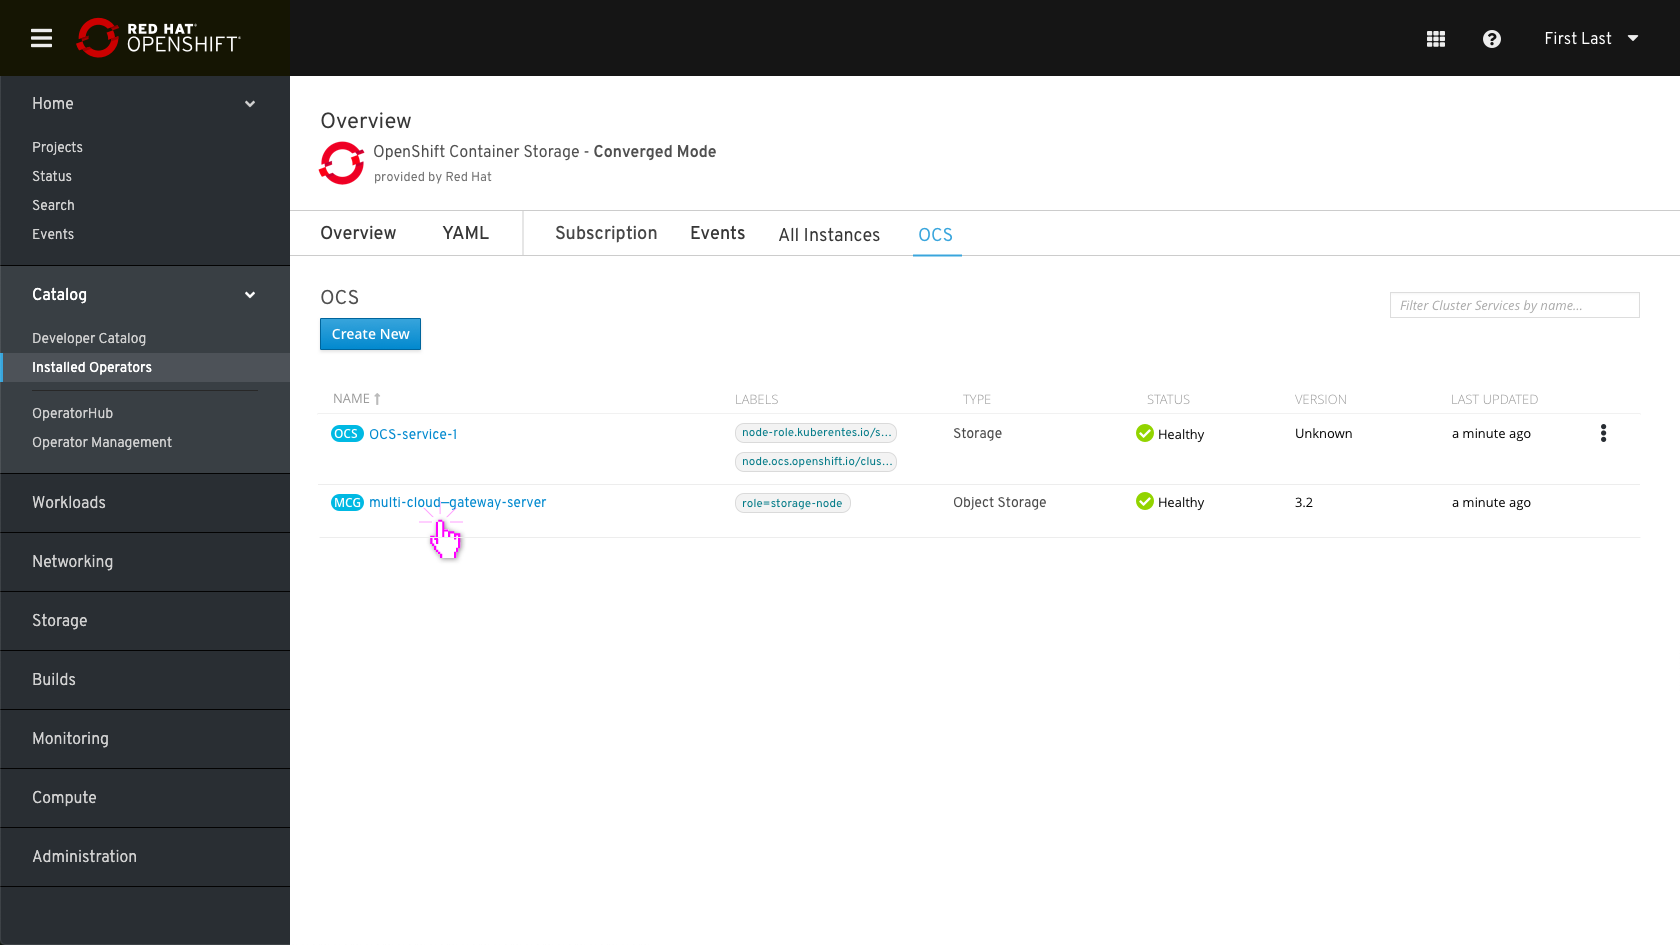
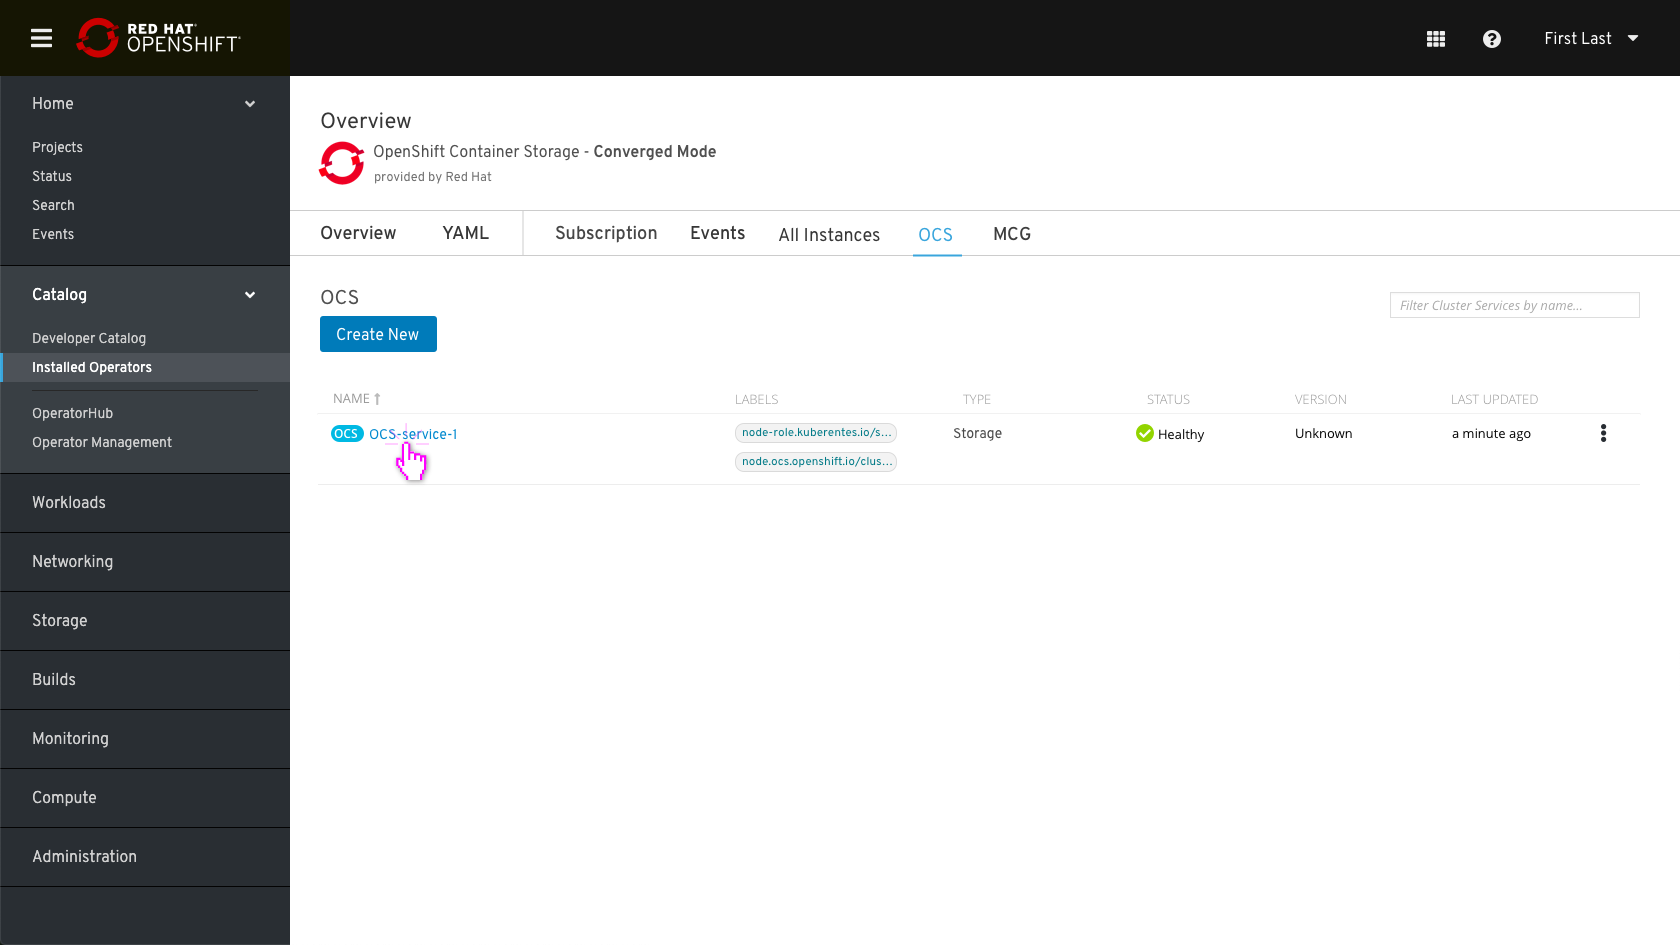
MCG tab added

diff --git a/web-console/Storage/OCS/OCS _Installation_Workflow.md b/web-console/Storage/OCS/OCS _Installation_Workflow.md
@@ -68,7 +68,7 @@ In The case of on-premise the flow remains the same, the info message for creati
 * OCS Overview
 ![Installation page](img/Installed_OCS_OCS_Overview.png)
 
-When the creation process starts new rows for “OCS” and “MCG” will be presented. If the deployment process runs for a while, the status “deploying” will be presented (the link is not linkable during the process).
+When the creation process starts new rows for “OCS” and “MCG” will be presented in each of the instances tabs. If the deployment process runs for a while, the status “deploying” will be presented (the link is not linkable during the process).
 ![OCS Tab](img/Installed_OCS_OCS_Tab_deploy.png)
 ![OCS Tab](img/Installed_OCS_OCS_Tab_healthy.png)
 
